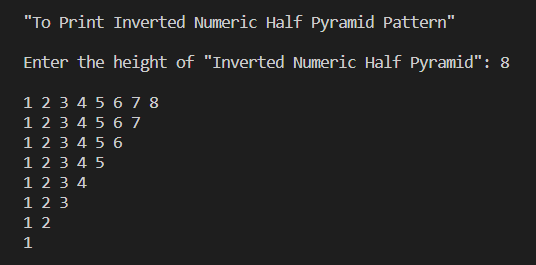
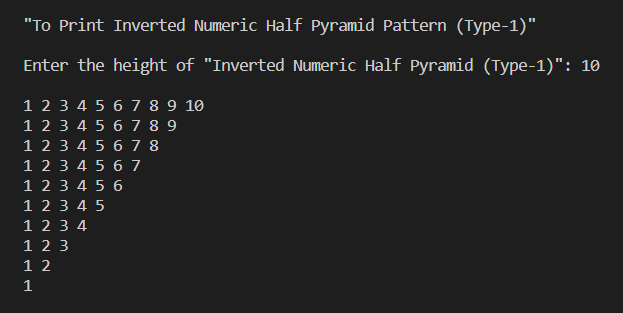
Updated "Inverted Numeric Half Pyramid Pattern"

diff --git a/02_Playing with Patterns/12_Inverted Numeric Half Pyramid/01_Inverted_Numeric_Half_Pyramid.cpp b/02_Playing with Patterns/12_Inverted Numeric Half Pyramid/01_Inverted_Numeric_Half_Pyramid.cpp
@@ -1,4 +1,4 @@
-// Inverted Numeric Half Pyramid
+// Inverted Numeric Half Pyramid (Type-1) 
 
 #include<iostream> 
 using namespace std;
@@ -6,16 +6,16 @@ using namespace std;
 int main(){
 
     cout << endl;
-    cout << "\"To Print Inverted Numeric Half Pyramid Pattern\"" << endl;
+    cout << "\"To Print Inverted Numeric Half Pyramid Pattern (Type-1)\"" << endl;
     cout << endl;
 
     int height; 
-    cout << "Enter the height of \"Inverted Numeric Half Pyramid\": "; 
+    cout << "Enter the height of \"Inverted Numeric Half Pyramid (Type-1)\": "; 
     cin >> height; 
 
     cout << endl;
 
-    // Logic for printing "Inverted Numeric Half Pyramid": 
+    // Logic for printing "Inverted Numeric Half Pyramid (Type-1)": 
     for(int row=0; row < height; row++){
         for(int col=0; col < height-row; col++){
             cout << col+1 << " ";
@@ -30,7 +30,7 @@ int main(){
 
 
 /*
-    // My Different Logic for Printing "Inverted Numeric Half Pyramid": 
+    // My Different Logic for Printing "Inverted Numeric Half Pyramid (Type-1)": 
     
     for(int row=0; row < height; row++){
         
@@ -43,4 +43,44 @@ int main(){
 
         cout << endl;
     }
+*/
+
+
+// _ _ _ _ _ _ _ _ _ _ _ _ _ _ _ _ _ _ _ _ _ _ _ _ _ 
+
+
+/*
+
+// Inverted Numeric Half Pyramid (Type-2) 
+
+#include<iostream> 
+using namespace std;
+
+int main(){
+
+    cout << endl;
+    cout << "\"To Print Inverted Numeric Half Pyramid Pattern (Type-2)\"" << endl;
+    cout << endl;
+
+    int height; 
+    cout << "Enter the height of \"Inverted Numeric Half Pyramid (Type-2)\": "; 
+    cin >> height; 
+
+    cout << endl;
+
+    int count=1;
+
+    // Logic for printing "Inverted Numeric Half Pyramid (Type-2)": 
+    for(int row=0; row < height; row++){
+        for(int col=0; col < height-row; col++){
+            cout << row + col + 1 << " ";
+        }
+        cout << endl; 
+    }
+
+    cout << endl;
+
+    return 0;
+}
+
 */
